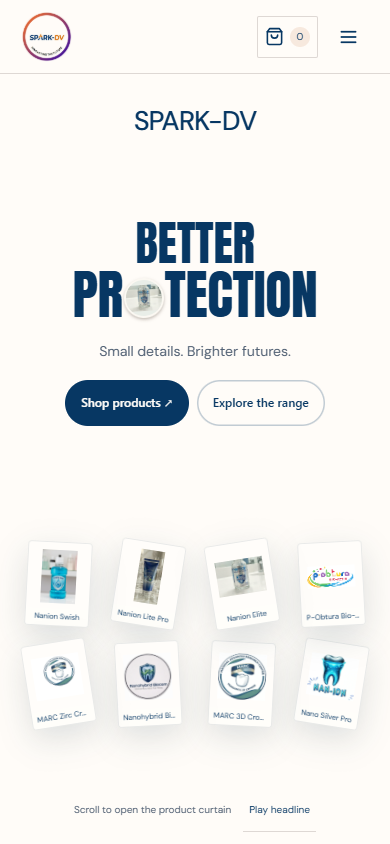
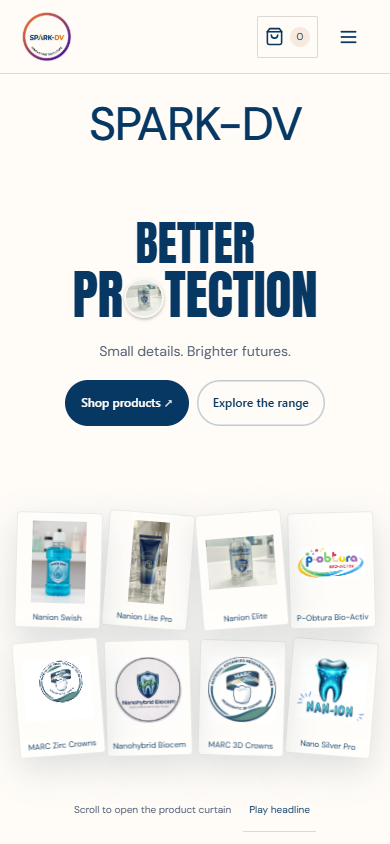
major changes3

diff --git a/src/commerce.css b/src/commerce.css
@@ -559,7 +559,7 @@ button, a, input, select, summary { accent-color: var(--shop-accent); }
 .shop-sticker-fallback { min-height: calc(100svh - 82px); display: grid; place-items: center; }
 .shop-sticker-hero { position: relative; height: calc(100svh + 360px); background: var(--shop-paper); }
 .shop-sticker-stage { position: sticky; top: 82px; height: calc(100svh - 82px); min-height: 640px; overflow: hidden; isolation: isolate; }
-.shop-sticker-brand { position: absolute; top: 6%; left: 0; width: 100%; text-align: center; font-size: clamp(24px,3vw,40px); font-weight: 500; letter-spacing: -.035em; }
+.shop-sticker-brand { position: absolute; top: 4%; left: 0; width: 100%; text-align: center; font-size: clamp(52px,6vw,88px); font-weight: 500; line-height: 1.1; letter-spacing: -.035em; }
 .shop-sticker-curtain { position: absolute; inset: 0; z-index: 1; pointer-events: none; }
 .shop-sticker-stage .curtain-photo-anchor { top: 49%; }
 .shop-sticker-headline.ssh-root { position: absolute; z-index: 2; top: 20%; left: 24%; width: 52%; height: 60% !important; overflow: visible; pointer-events: none; }
@@ -577,7 +577,7 @@ button, a, input, select, summary { accent-color: var(--shop-accent); }
 @media (max-width: 767px) {
   .shop-sticker-hero { height: calc(100svh + 280px); }
   .shop-sticker-stage { top: 68px; height: calc(100svh - 68px); min-height: 740px; }
-  .shop-sticker-brand { top: 4%; font-size: 27px; }
+  .shop-sticker-brand { top: 4%; font-size: clamp(40px,12vw,60px); }
   .shop-sticker-headline.ssh-root { top: 12%; left: 5%; width: 90%; height: 42% !important; }
   .shop-sticker-headline .ssh-h { font-size: clamp(44px,16cqi,80px); }
   .shop-sticker-headline .ssh-desc { font-size: 14px; margin-top: 22px; }

diff --git a/src/components/ui/curtain-product-split.tsx b/src/components/ui/curtain-product-split.tsx
@@ -37,11 +37,13 @@ function CurtainPhotoCard({
   const wingIndex = Math.floor(index / 2);
   const norm = wingIndex / (half - 1) - 0.5;
   const side = isLeft ? -1 : 1;
-  const width = stage.isMobile ? 70 : 144;
-  const height = stage.isMobile ? 92 : 180;
+  const width = stage.isMobile ? Math.min(100, stage.width * .22) : Math.min(196, stage.width * .16);
+  const height = width * (stage.isMobile ? 1.35 : 1.25);
   const arch = Math.cos(norm * Math.PI) * stage.width * 0.025;
   const targetX = stage.isMobile ? side * stage.width * (wingIndex % 2 ? .35 : .12) : side * (stage.width * .37 + arch);
-  const targetY = stage.isMobile ? Math.floor(wingIndex / 2) * 100 - 50 : norm * stage.height * .58;
+  const targetY = stage.isMobile
+    ? (Math.floor(wingIndex / 2) - .5) * (height + 12)
+    : norm * Math.min(stage.height * .66, stage.height * .9 - height);
   const initialX = side * wingIndex * 4;
   const initialY = norm * 10;
   const reveal = useTransform(progress, (value) => (reduced ? 1 : value));
@@ -54,8 +56,8 @@ function CurtainPhotoCard({
     const ease = 1 - Math.pow(1 - p, 3);
     return initialY + (targetY - initialY) * ease + py * (stage.isMobile ? 6 : 14) * ease;
   });
-  const rotate = useTransform(reveal, [0, 0.45, 1], [side * wingIndex * 2, isLeft ? -14 : 14, side * norm * 18]);
-  const scale = useTransform(reveal, [0, 0.5, 1], [0.18, 0.96, 0.92]);
+  const rotate = useTransform(reveal, [0, 0.45, 1], [side * wingIndex * 2, (isLeft ? -1 : 1) * (stage.isMobile ? 6 : 12), side * norm * (stage.isMobile ? 9 : 18)]);
+  const scale = useTransform(reveal, [0, 0.5, 1], [0.18, 0.98, 1]);
   const opacity = useTransform(reveal, [0, 0.16, 0.48], [0, 0.82, 1]);
 
   return (
